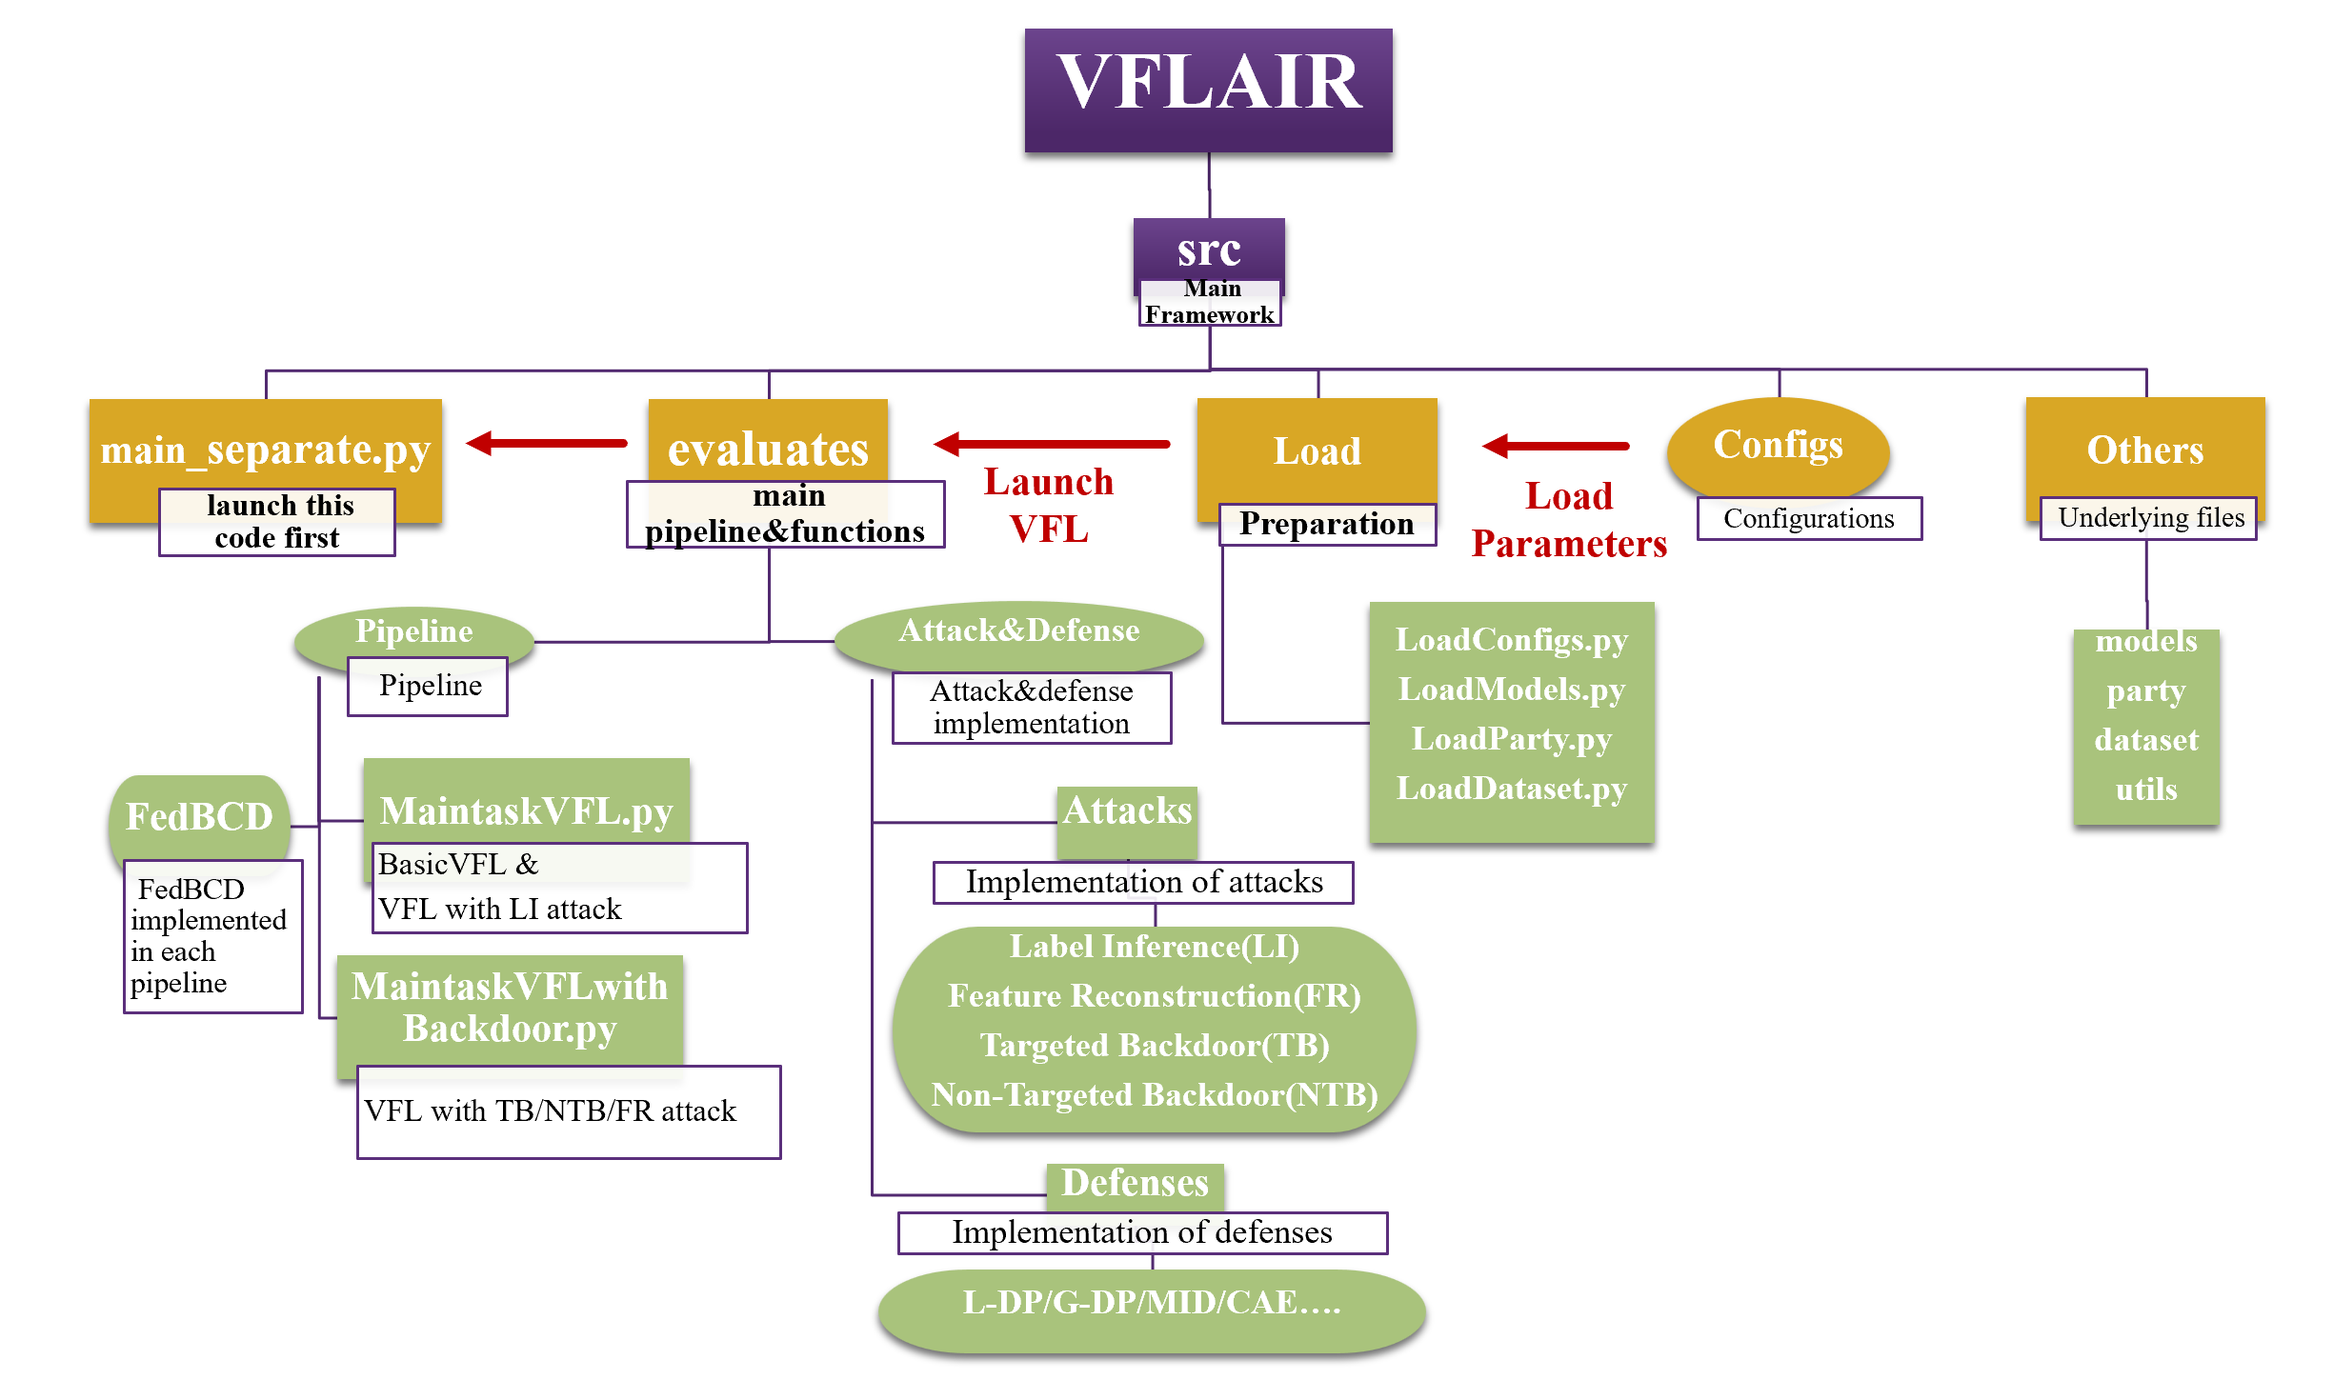
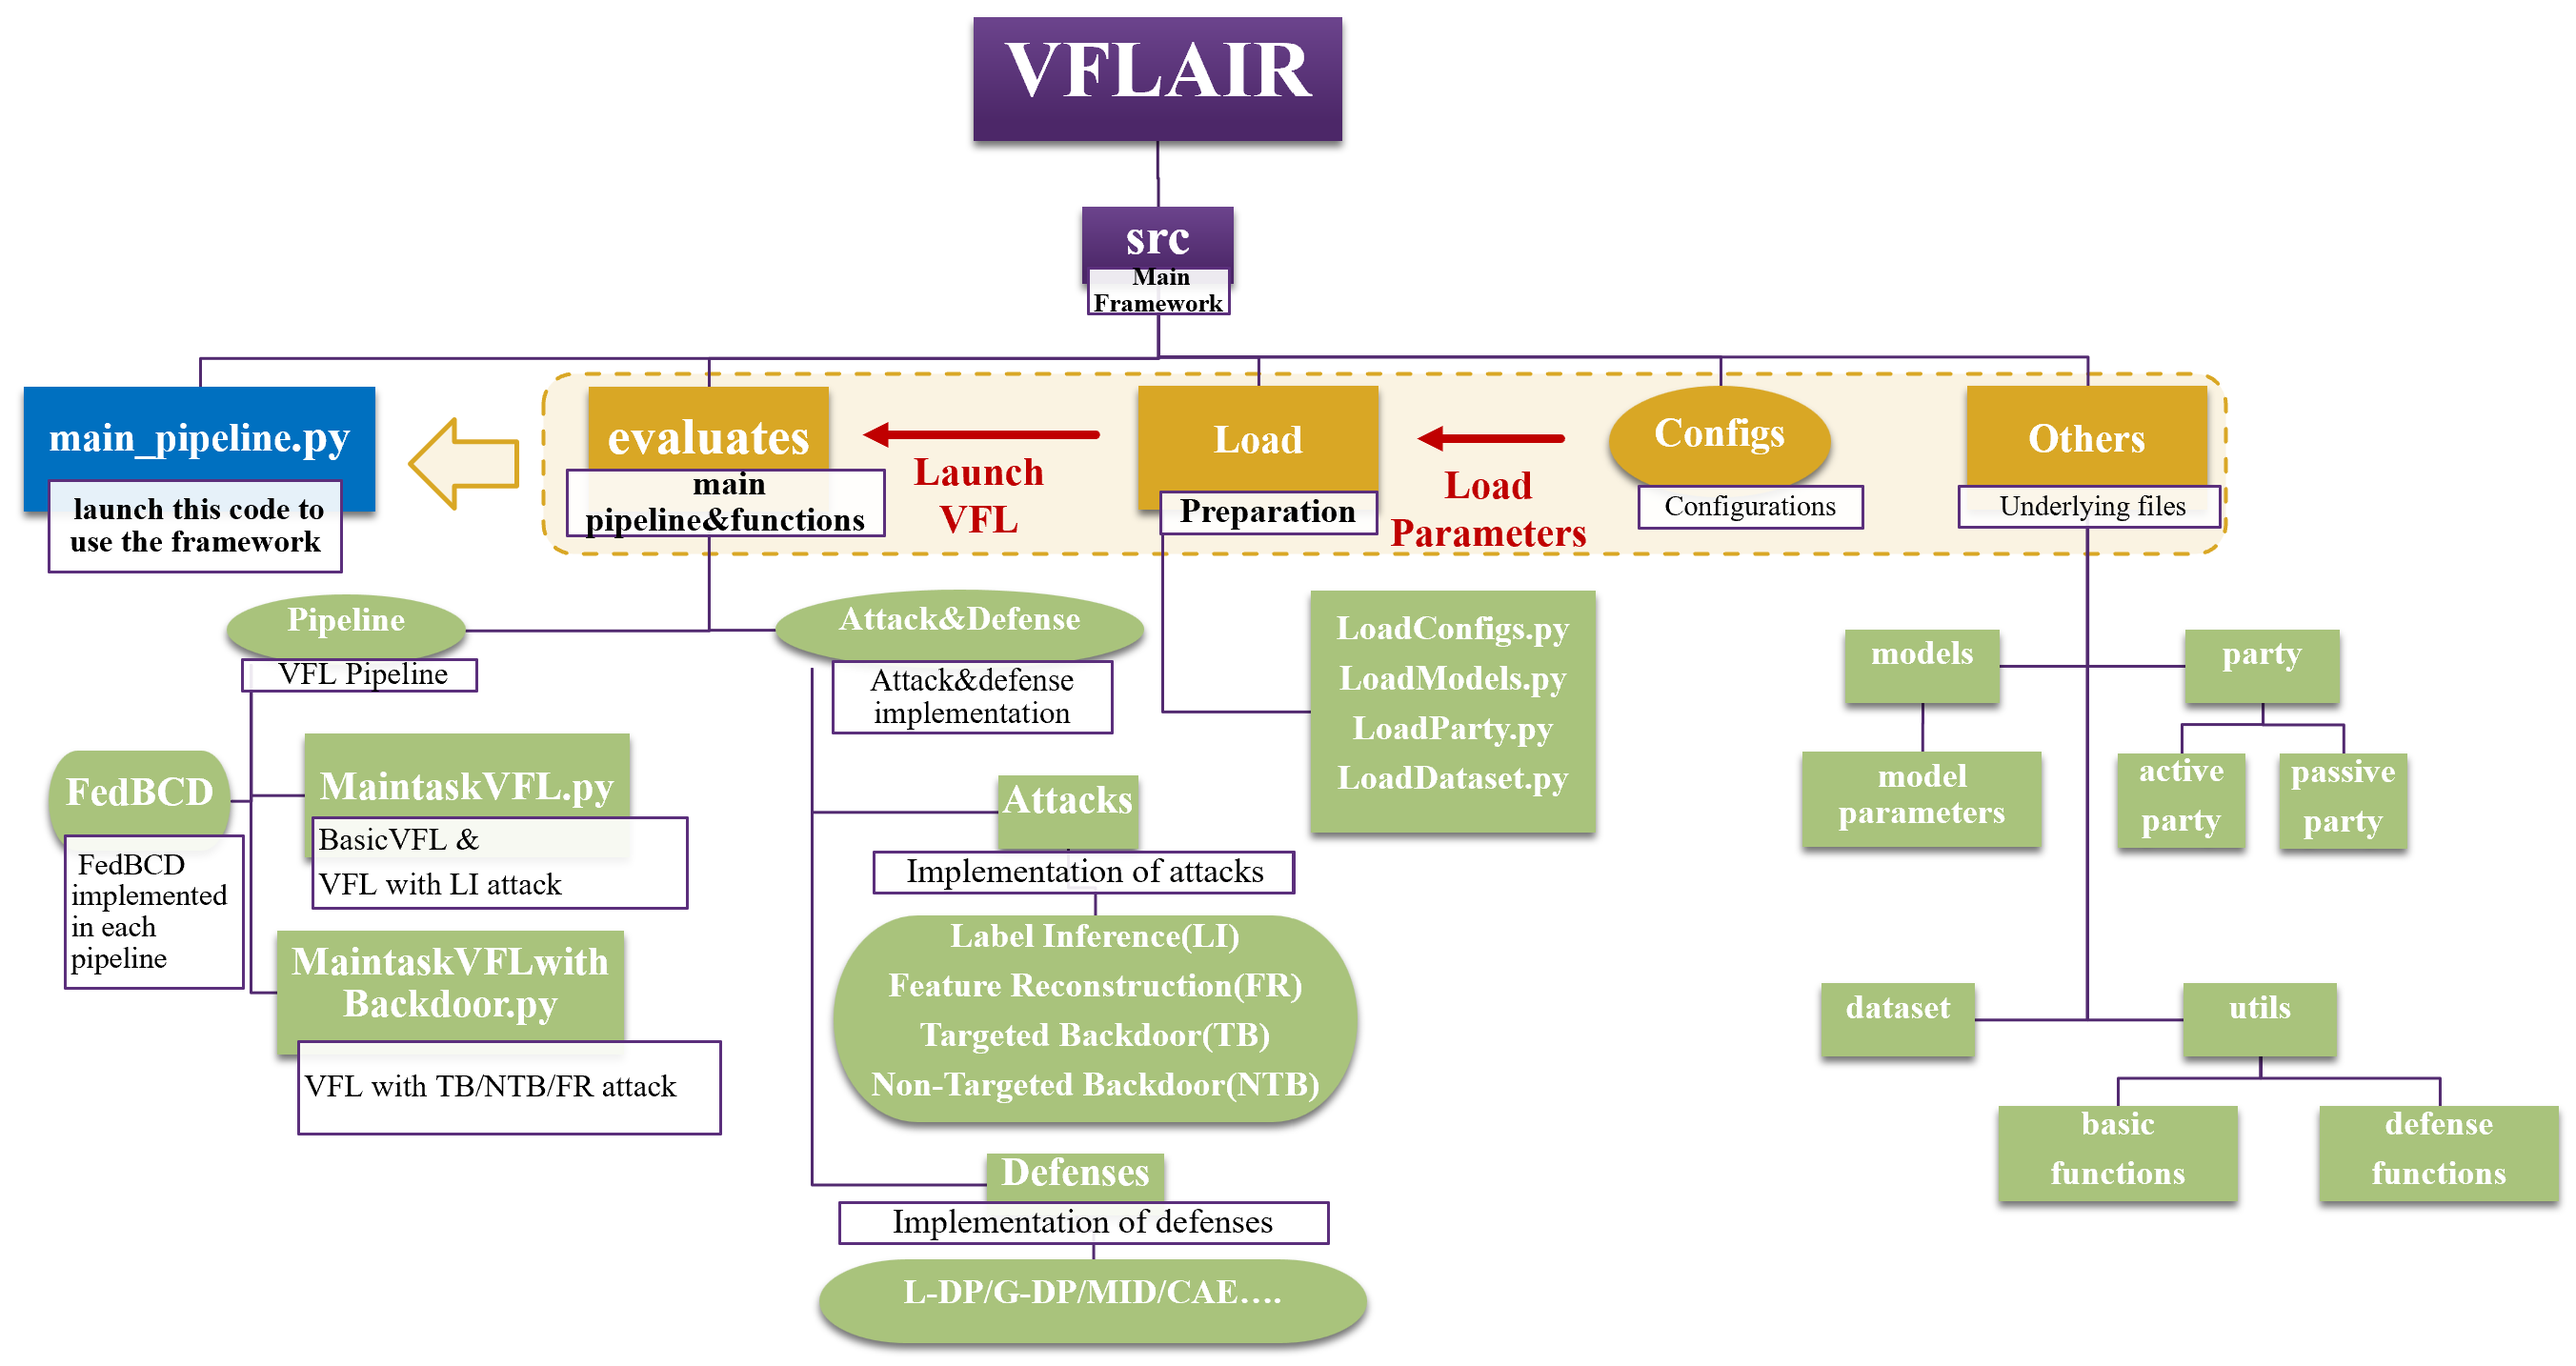
revise document

diff --git a/README.md b/README.md
@@ -69,7 +69,7 @@ VFLAIR
 │   |   ├── ...
 │   ├── metrics                        # Benchmark and Defense Capability Score (DCS) definition
 │   |   ├── ...
-│   ├── main_separate.py               # Main VFL(launch this file for NN based VFL)  
+│   ├── main_pipeline.py               # Main VFL(launch this file for NN based VFL)  
 │   ├── main_tree.py                   # Main Tree-based VFL(launch this file for tree-based VFL)  
 ├── usage_guidance                     # Detailed Usage  
 │   ├── figures
@@ -94,7 +94,7 @@ VFLAIR
 * `/src/configs/basic_configs.json` is a sample configuration file. You can copy it and modify the contents for your own purpose.
 * For detail information about configuration parameters, see `/src/configs/README.md` for detail information.
 
-2. Use `cd src` and `python main_separate.py --seed 0 --gpu 0 --configs <Your_Config_file_name>` to start the evaluation process. A quick example can be launched by simplying using `cd src` and `python main_separate.py` (a vanilar VFL training and testing process is launched). For more detail descriptions, see Section Two.
+2. Use `cd src` and `python main_pipeline.py --seed 0 --gpu 0 --configs <Your_Config_file_name>` to start the evaluation process. A quick example can be launched by simplying using `cd src` and `python main_pipeline.py` (a vanilar VFL training and testing process is launched). For more detail descriptions, see Section Two.
 
 ### Two. Advanced Usage: Implement Your Own Algorithm
 
@@ -112,6 +112,6 @@ VFLAIR
 
 ## Contributing
 
-We **greatly appreciate** any contribution to VFLAIR! 
+We **greatly appreciate** any contribution to VFLAIR! Also, we'll continue to improve our framework and documentation to provide more flexible and convenient usage.
 
-Please feel free to contact us if there's any problem with the code base!
+Please feel free to contact us if there's any problem with the code base or documentation!
